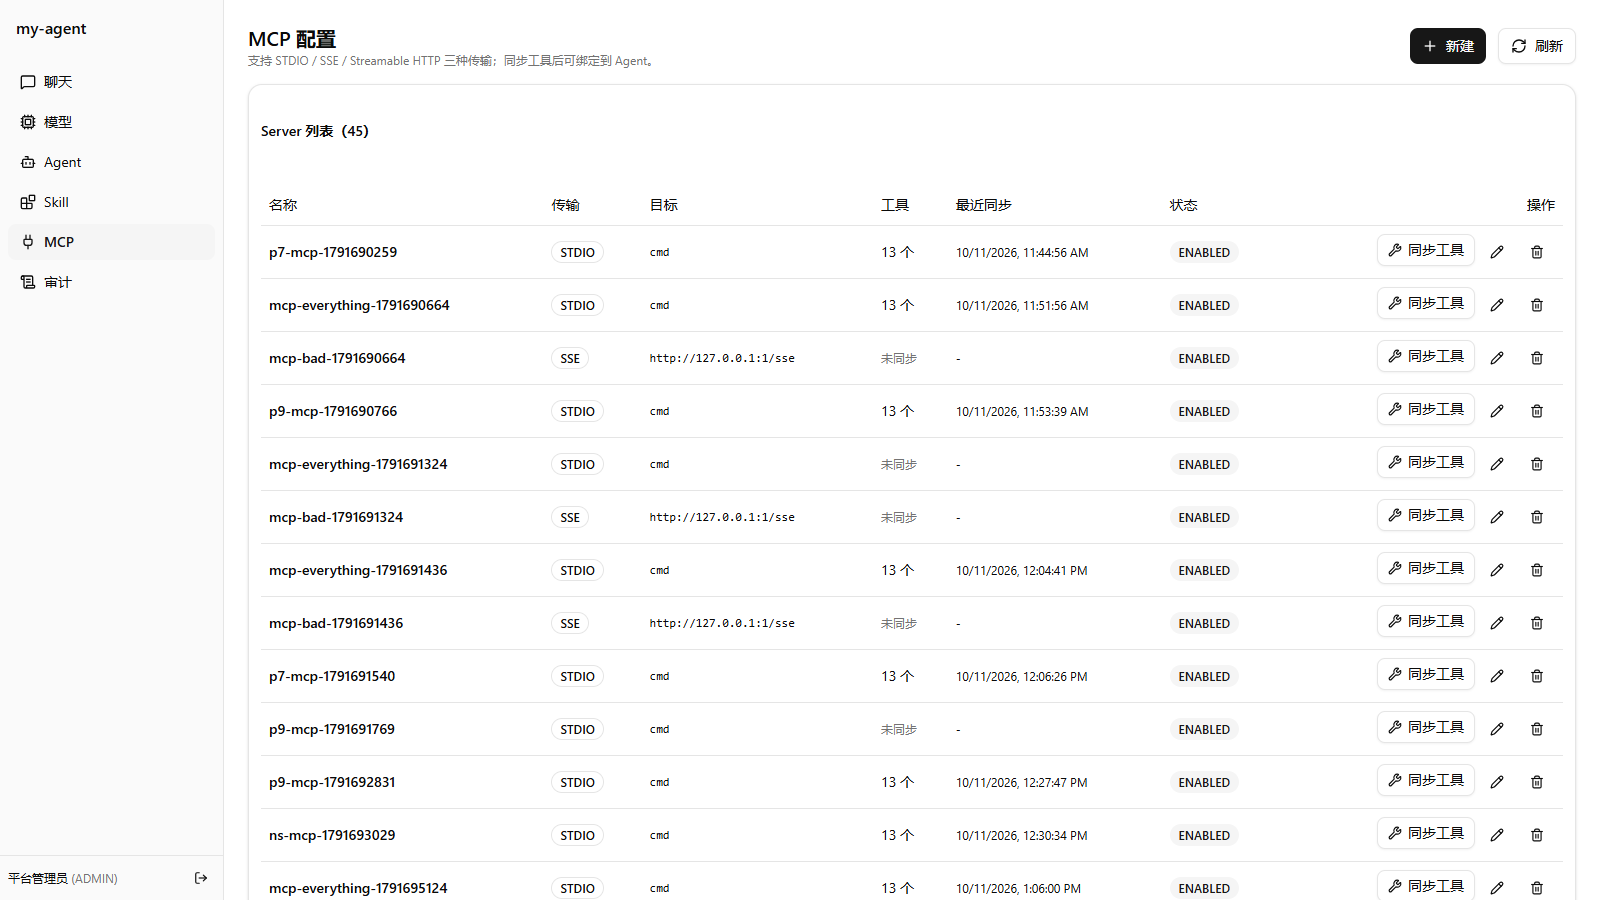
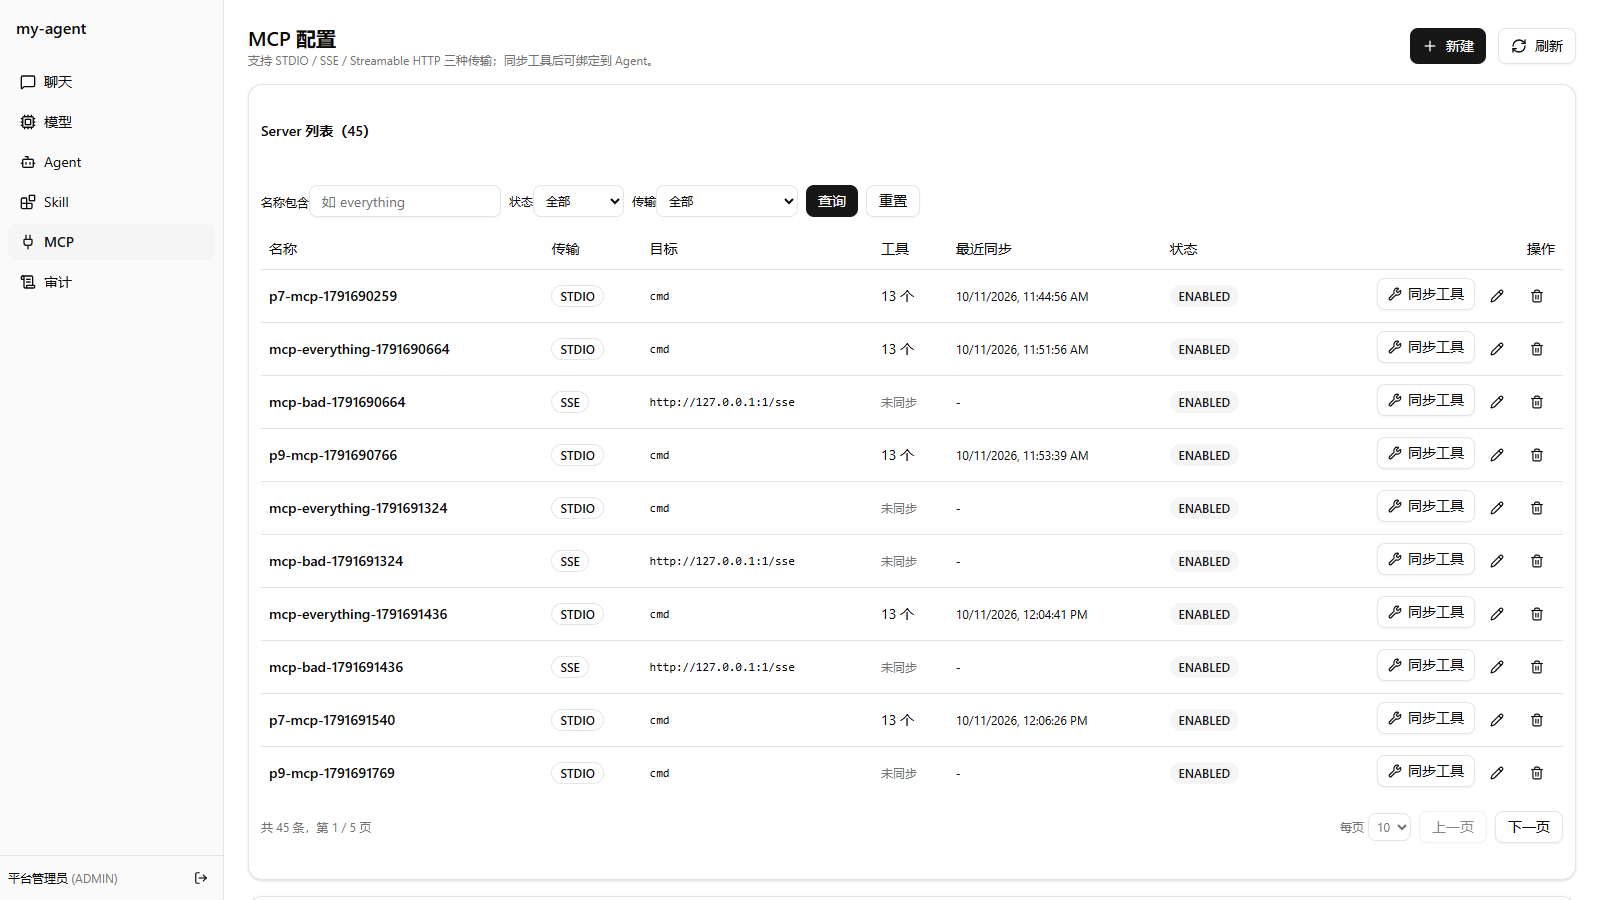
feat(mcp): MCP 页加分页与筛选（名称 / 状态 / 传输）
用户反馈：MCP 页没有分页，需要加分页和筛选条件。

后端（McpServerController / McpConfigService）：
- GET /api/mcp-servers 增加可选筛选参数：keyword（名称模糊）、status（ENABLED/DISABLED）、
  transport（STDIO/SSE/STREAMABLE_HTTP），与分页组合生效。

前端（McpPage）：
- 筛选条：名称包含 + 状态 + 传输 + 查询 / 重置；
- 分页：共 N 条、第 x / y 页、每页 10/20/50、上一页/下一页；标题显示总数。

**过程中修掉一个真 bug（lint 直接指出来了，不是风格问题）**：
refresh 的 useCallback 依赖数组是空的，而函数体里读了 page/pageSize/applied ——
翻页或筛选后 refresh 身份不变 → 下面的 effect 不会重跑 → **表格会「看着卡住」**。
加上依赖后翻页/筛选才会真正重新请求。

实测（Playwright e2e/verify-mcp-paging.spec.ts 通过）：
- 分页：共 45 条、第 1/5 页；翻到第 2 页内容确实不同；每页改 20 → 共 45 条、第 1/3 页；
- 关键词 everything → 12 条（全部命中该词）；
- 传输 STDIO → 33 条（每行都含 STDIO）；
- 重置 → 回到 45 条；「本地工具」卡片仍在。
接口层也直接验过：keyword=everything→12、transport=STDIO→33、status=ENABLED→45、组合→12。

顺带一提：本机这 45 个 MCP 服务器几乎全是历次 e2e 留下的测试数据（p7-mcp-*、p9-mcp-*、
mcp-everything-* …）。按你说的先不清理，但分页/筛选用起来确实舒服多了。

验证：后端 mvn verify **112 通过**；前端 lint 0 error / vitest 74 通过 / build 成功。
截图 docs/acceptance/task-29-mcp-paging.png

diff --git a/frontend/src/pages/admin/mcp/McpPage.tsx b/frontend/src/pages/admin/mcp/McpPage.tsx
@@ -90,22 +90,43 @@ export default function McpPage() {
   const [tools, setTools] = useState<Record<number, McpToolCacheEntry[]>>({});
   /** 平台内置（框架注册）工具：只读展示。它们不属于任何 MCP 服务器，也不由平台管理。 */
   const [builtinTools, setBuiltinTools] = useState<ToolEntry[]>([]);
+  // 分页 + 筛选（MCP 服务器一多，一页刷到底根本找不到）
+  const [page, setPage] = useState(1);
+  const [pageSize, setPageSize] = useState(10);
+  const [total, setTotal] = useState(0);
+  const [keyword, setKeyword] = useState("");
+  const [statusFilter, setStatusFilter] = useState<"" | "ENABLED" | "DISABLED">("");
+  const [transportFilter, setTransportFilter] = useState<"" | McpTransport>("");
+  /** 已提交生效的筛选（输入框改动不立即请求，点「查询」才生效） */
+  const [applied, setApplied] = useState({ keyword: "", status: "" as "" | "ENABLED" | "DISABLED", transport: "" as "" | McpTransport });
 
   const refresh = useCallback(async () => {
     setLoading(true);
     try {
-      const page = await listMcpServers();
-      setServers(page.records);
+      const result = await listMcpServers({
+        current: page,
+        size: pageSize,
+        keyword: applied.keyword,
+        status: applied.status,
+        transport: applied.transport,
+      });
+      setServers(result.records);
+      setTotal(result.total);
     } catch (err) {
       toast.error(err instanceof Error ? err.message : "加载 MCP 列表失败");
     } finally {
       setLoading(false);
     }
-  }, []);
+    // 依赖必须带上 page/pageSize/applied：否则翻页与筛选变了但 refresh 身份不变，
+    // 下面的 effect 不会重跑 → 表格看着像卡住了（这类 bug lint 会直接提出来）。
+  }, [page, pageSize, applied]);
 
   useEffect(() => {
     void refresh();
-    // 内置工具清单（只读）：来自框架注册的 Toolkit，与 MCP 无关，所以单独拉一次
+  }, [refresh]);
+
+  // 内置工具清单（只读）：来自框架注册的 Toolkit，与 MCP 无关，整个页面生命周期只拉一次
+  useEffect(() => {
     void (async () => {
       try {
         const all = await listTools();
@@ -114,7 +135,7 @@ export default function McpPage() {
         setBuiltinTools([]);
       }
     })();
-  }, [refresh]);
+  }, []);
 
   function openCreate() {
     setForm(EMPTY_FORM);
@@ -212,9 +233,82 @@ export default function McpPage() {
 
       <Card>
         <CardHeader className="p-3">
-          <CardTitle className="text-sm">Server 列表（{servers.length}）</CardTitle>
+          <CardTitle className="text-sm">Server 列表（{total}）</CardTitle>
         </CardHeader>
-        <CardContent className="p-3 pt-0">
+        <CardContent className="p-3 pt-0 space-y-3">
+          {/* 筛选条 */}
+          <div className="flex flex-wrap items-end gap-2" data-testid="mcp-filters">
+            <label className="space-y-1 text-xs">
+              名称包含
+              <Input
+                className="h-8 w-48"
+                data-testid="mcp-filter-keyword"
+                placeholder="如 everything"
+                value={keyword}
+                onChange={(e) => setKeyword(e.target.value)}
+                onKeyDown={(e) => {
+                  if (e.key === "Enter") {
+                    setPage(1);
+                    setApplied({ keyword, status: statusFilter, transport: transportFilter });
+                  }
+                }}
+              />
+            </label>
+            <label className="space-y-1 text-xs">
+              状态
+              <select
+                className="border-input h-8 rounded-md border bg-transparent px-2 text-xs"
+                data-testid="mcp-filter-status"
+                value={statusFilter}
+                onChange={(e) => setStatusFilter(e.target.value as "" | "ENABLED" | "DISABLED")}
+              >
+                <option value="">全部</option>
+                <option value="ENABLED">ENABLED</option>
+                <option value="DISABLED">DISABLED</option>
+              </select>
+            </label>
+            <label className="space-y-1 text-xs">
+              传输
+              <select
+                className="border-input h-8 rounded-md border bg-transparent px-2 text-xs"
+                data-testid="mcp-filter-transport"
+                value={transportFilter}
+                onChange={(e) => setTransportFilter(e.target.value as "" | McpTransport)}
+              >
+                <option value="">全部</option>
+                {MCP_TRANSPORTS.map((t) => (
+                  <option key={t} value={t}>
+                    {t}
+                  </option>
+                ))}
+              </select>
+            </label>
+            <Button
+              size="sm"
+              data-testid="mcp-filter-apply"
+              onClick={() => {
+                setPage(1);
+                setApplied({ keyword, status: statusFilter, transport: transportFilter });
+              }}
+            >
+              查询
+            </Button>
+            <Button
+              size="sm"
+              variant="outline"
+              data-testid="mcp-filter-reset"
+              onClick={() => {
+                setKeyword("");
+                setStatusFilter("");
+                setTransportFilter("");
+                setPage(1);
+                setApplied({ keyword: "", status: "", transport: "" });
+              }}
+            >
+              重置
+            </Button>
+          </div>
+
           <Table>
             <TableHeader>
               <TableRow>
@@ -293,6 +387,54 @@ export default function McpPage() {
               )}
             </TableBody>
           </Table>
+
+          {/* 分页 */}
+          <div
+            className="mt-3 flex flex-wrap items-center justify-between gap-2 text-sm"
+            data-testid="mcp-pagination"
+          >
+            <div className="text-muted-foreground text-xs">
+              共 {total} 条，第 {page} / {Math.max(1, Math.ceil(total / pageSize))} 页
+            </div>
+            <div className="flex items-center gap-2">
+              <label className="text-muted-foreground text-xs">
+                每页
+                <select
+                  className="border-input ml-1 h-7 rounded-md border px-1 text-xs"
+                  data-testid="mcp-page-size"
+                  value={pageSize}
+                  onChange={(e) => {
+                    setPageSize(Number(e.target.value));
+                    setPage(1);
+                  }}
+                >
+                  {[10, 20, 50].map((n) => (
+                    <option key={n} value={n}>
+                      {n}
+                    </option>
+                  ))}
+                </select>
+              </label>
+              <Button
+                variant="outline"
+                size="sm"
+                data-testid="mcp-prev"
+                disabled={page <= 1 || loading}
+                onClick={() => setPage((p) => Math.max(1, p - 1))}
+              >
+                上一页
+              </Button>
+              <Button
+                variant="outline"
+                size="sm"
+                data-testid="mcp-next"
+                disabled={page >= Math.ceil(total / pageSize) || loading}
+                onClick={() => setPage((p) => p + 1)}
+              >
+                下一页
+              </Button>
+            </div>
+          </div>
         </CardContent>
       </Card>
 

diff --git a/frontend/e2e/verify-mcp-paging.spec.ts b/frontend/e2e/verify-mcp-paging.spec.ts
@@ -1,0 +1,76 @@
+import { expect, test } from "@playwright/test";
+
+/** 用户需求：MCP 页加分页 + 筛选条件。 */
+test("MCP 页：分页可翻、筛选生效、可与内置工具共存", async ({ page }) => {
+  await page.setViewportSize({ width: 1600, height: 900 });
+  await page.goto("/login");
+  await page.getByLabel("用户名").fill("admin");
+  await page.getByLabel("密码").fill("Admin@123");
+  await page.getByRole("button", { name: /登录/ }).click();
+  await page.waitForURL(/\/chat/);
+
+  await page.goto("/admin/mcp");
+  await expect(page.getByTestId("mcp-pagination")).toBeVisible({ timeout: 25000 });
+  const sum = () => page.getByTestId("mcp-pagination").innerText();
+  console.log("[① 分页]", (await sum()).replace(/\s+/g, " "));
+
+  const rows = () => page.locator("table").first().locator("tbody tr");
+  const firstPageNames = await rows().evaluateAll((els) =>
+    els.map((el) => el.querySelector("td")?.textContent?.trim() ?? ""),
+  );
+  console.log("[① 第1页前3]", firstPageNames.slice(0, 3).join(", "));
+
+  // 翻到第 2 页：内容必须变（验证「翻页真的重新请求」）
+  const nextBtn = page.getByTestId("mcp-next");
+  if (!(await nextBtn.isDisabled())) {
+    await nextBtn.click();
+    await page.waitForTimeout(1200);
+    const secondPageNames = await rows().evaluateAll((els) =>
+      els.map((el) => el.querySelector("td")?.textContent?.trim() ?? ""),
+    );
+    console.log("[① 第2页前3]", secondPageNames.slice(0, 3).join(", "));
+    console.log("[① 第2页]", (await sum()).replace(/\s+/g, " "));
+    expect(secondPageNames.join()).not.toBe(firstPageNames.join());
+    await page.getByTestId("mcp-prev").click();
+    await page.waitForTimeout(1000);
+  }
+
+  // 每页条数
+  await page.getByTestId("mcp-page-size").selectOption("20");
+  await page.waitForTimeout(1200);
+  console.log("[① 每页20]", (await sum()).replace(/\s+/g, " "));
+  expect(await rows().count()).toBeLessThanOrEqual(20);
+
+  // ② 关键词筛选
+  await page.getByTestId("mcp-page-size").selectOption("50");
+  await page.waitForTimeout(1000);
+  await page.getByTestId("mcp-filter-keyword").fill("everything");
+  await page.getByTestId("mcp-filter-apply").click();
+  await page.waitForTimeout(1200);
+  const kwNames = await rows().evaluateAll((els) =>
+    els.map((el) => el.querySelector("td")?.textContent?.trim() ?? ""),
+  );
+  console.log("[② 关键词 everything] 条数 =", kwNames.length, "|", (await sum()).replace(/\s+/g, " "));
+  expect(kwNames.length).toBeGreaterThan(0);
+  expect(kwNames.every((n) => n.toLowerCase().includes("everything"))).toBe(true);
+
+  // ③ 传输筛选
+  await page.getByTestId("mcp-filter-reset").click();
+  await page.waitForTimeout(1000);
+  await page.getByTestId("mcp-filter-transport").selectOption("STDIO");
+  await page.getByTestId("mcp-filter-apply").click();
+  await page.waitForTimeout(1200);
+  const stdioRows = await rows().evaluateAll((els) =>
+    els.map((el) => Array.from(el.querySelectorAll("td")).map((td) => td.textContent ?? "").join(" ")),
+  );
+  console.log("[③ 传输 STDIO] 条数 =", stdioRows.length, "|", (await sum()).replace(/\s+/g, " "));
+  expect(stdioRows.every((r) => r.includes("STDIO"))).toBe(true);
+
+  // ④ 重置后回到全量，且内置工具卡片仍在
+  await page.getByTestId("mcp-filter-reset").click();
+  await page.waitForTimeout(1200);
+  console.log("[④ 重置后]", (await sum()).replace(/\s+/g, " "));
+  await expect(page.getByTestId("builtin-tools-card")).toBeVisible();
+
+  await page.screenshot({ path: "../docs/acceptance/task-29-mcp-paging.png", fullPage: true });
+});

diff --git a/frontend/src/api/mcp.ts b/frontend/src/api/mcp.ts
@@ -38,8 +38,24 @@ export interface McpServerPayload {
 
 export const MCP_TRANSPORTS: McpTransport[] = ["STDIO", "SSE", "STREAMABLE_HTTP"];
 
-export function listMcpServers(current = 1, size = 100) {
-  return apiFetch<PageResult<McpServerInfo>>(`/api/mcp-servers?current=${current}&size=${size}`);
+/** 列表筛选条件（都可选）。 */
+export interface McpListQuery {
+  current?: number;
+  size?: number;
+  /** 名称模糊匹配 */
+  keyword?: string;
+  status?: "ENABLED" | "DISABLED" | "";
+  transport?: McpTransport | "";
+}
+
+export function listMcpServers(query: McpListQuery = {}) {
+  const params = new URLSearchParams();
+  params.set("current", String(query.current ?? 1));
+  params.set("size", String(query.size ?? 20));
+  if (query.keyword?.trim()) params.set("keyword", query.keyword.trim());
+  if (query.status) params.set("status", query.status);
+  if (query.transport) params.set("transport", query.transport);
+  return apiFetch<PageResult<McpServerInfo>>(`/api/mcp-servers?${params.toString()}`);
 }
 
 export function createMcpServer(payload: McpServerPayload) {

diff --git a/backend/agent-server/src/main/java/com/myagent/mcpconfig/service/McpConfigService.java b/backend/agent-server/src/main/java/com/myagent/mcpconfig/service/McpConfigService.java
@@ -41,9 +41,25 @@ public class McpConfigService {
         this.agentCacheInvalidator = agentCacheInvalidator;
     }
 
-    public PageResult<McpServerResponse> list(long current, long size) {
-        Page<McpServer> page = mcpServerMapper.selectPage(
-                new Page<>(current, size), Wrappers.<McpServer>lambdaQuery().orderByAsc(McpServer::getId));
+    /**
+     * 列表（分页 + 筛选）。
+     *
+     * <p>筛选项都是可选的：{@code keyword} 按名称模糊匹配，{@code status}/{@code transport} 精确匹配。
+     * 之前只能一页刷到底，MCP 服务器一多就难找（用户反馈）。
+     */
+    public PageResult<McpServerResponse> list(
+            long current, long size, String keyword, String status, String transport) {
+        var query = Wrappers.<McpServer>lambdaQuery().orderByAsc(McpServer::getId);
+        if (StringUtils.hasText(keyword)) {
+            query.like(McpServer::getName, keyword.trim());
+        }
+        if (StringUtils.hasText(status)) {
+            query.eq(McpServer::getStatus, status.trim().toUpperCase());
+        }
+        if (StringUtils.hasText(transport)) {
+            query.eq(McpServer::getTransport, transport.trim().toUpperCase());
+        }
+        Page<McpServer> page = mcpServerMapper.selectPage(new Page<>(current, size), query);
         return PageResult.of(
                 page.getRecords().stream().map(McpConfigService::toResponse).toList(),
                 page.getTotal(),

diff --git a/backend/agent-server/src/main/java/com/myagent/mcpconfig/controller/McpServerController.java b/backend/agent-server/src/main/java/com/myagent/mcpconfig/controller/McpServerController.java
@@ -32,8 +32,11 @@ public class McpServerController {
     @GetMapping
     public Result<PageResult<McpServerResponse>> list(
             @RequestParam(defaultValue = "1") long current,
-            @RequestParam(defaultValue = "20") long size) {
-        return Result.ok(service.list(current, size));
+            @RequestParam(defaultValue = "20") long size,
+            @RequestParam(required = false) String keyword,
+            @RequestParam(required = false) String status,
+            @RequestParam(required = false) String transport) {
+        return Result.ok(service.list(current, size, keyword, status, transport));
     }
 
     @GetMapping("/{id}")
